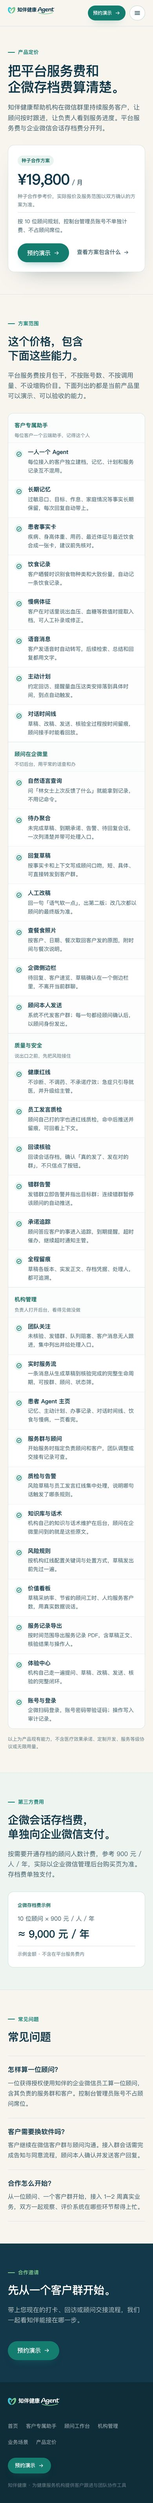
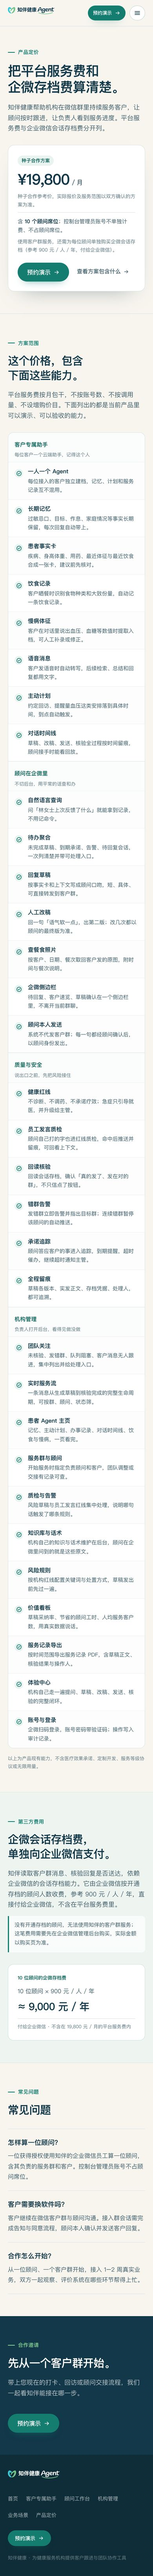
fix(website): 定价页写明 10 个席位与企微存档的前置关系 (#220)
- 价格卡标注「含 10 个顾问席位」，并说明使用客户群服务需另购企微存档
- 存档费区块说明：企微按顾问人数收取、必须先购买才能使用客户群服务
- 去掉「示例金额」措辞，改为「付给企业微信 · 不含在 19,800 元/月的平台服务费内」

Changed region(s): [[0.0308, 0.0, 0.9231, 0.9967]]

diff --git a/website/src/pages/PricingPage.tsx b/website/src/pages/PricingPage.tsx
@@ -112,7 +112,12 @@ export function PricingPage() {
               <span className="price-card__unit">/ 月</span>
             </h2>
             <p className="price-card__note">种子合作参考价，实际报价及服务范围以双方确认的方案为准。</p>
-            <p className="price-card__scope">按 10 位顾问规划，控制台管理员账号不单独计费、不占顾问席位。</p>
+            <p className="price-card__scope">
+              含 <strong>10 个顾问席位</strong>；控制台管理员账号不单独计费、不占顾问席位。
+            </p>
+            <p className="price-card__scope price-card__scope--note">
+              使用客户群服务，还需为每位顾问单独购买企微会话存档（参考 900 元 / 人 / 年，付给企业微信）。
+            </p>
             <div className="price-card__actions">
               <BookDemoLink />
               <a className="text-link text-link--dark" href="#included">
@@ -180,14 +185,17 @@ export function PricingPage() {
             <p className="eyebrow">第三方费用</p>
             <h2>企微会话存档费，<br />单独向企业微信支付。</h2>
             <p className="lede">
-              按需要开通存档的顾问人数计费，参考 900 元 / 人 / 年，实际以企业微信管理后台购买页为准。存档费单独支付。
+              知伴读取客户群消息、核验回复是否送达，依赖企业微信的会话存档能力。它由企业微信按开通存档的顾问人数收费，参考 900 元 / 人 / 年，直接付给企业微信，不含在平台服务费里。
+            </p>
+            <p className="archive-fee__must">
+              没有开通存档的顾问，无法使用知伴的客户群服务；这笔费用需要先在企业微信管理后台购买，实际金额以购买页为准。
             </p>
           </div>
-          <div className="archive-fee__calc" aria-label="企微存档费示例">
-            <p className="archive-fee__label">企微存档费示例</p>
+          <div className="archive-fee__calc" aria-label="10 位顾问的企微存档费">
+            <p className="archive-fee__label">10 位顾问的企微存档费</p>
             <p className="archive-fee__formula">10 位顾问 × 900 元 / 人 / 年</p>
             <p className="archive-fee__total">≈ 9,000 元 / 年</p>
-            <p className="archive-fee__caption">示例金额 · 不含在平台服务费内</p>
+            <p className="archive-fee__caption">付给企业微信 · 不含在 19,800 元 / 月的平台服务费内</p>
           </div>
         </div>
       </section>

diff --git a/website/tests/pricing-page.test.tsx b/website/tests/pricing-page.test.tsx
@@ -24,12 +24,18 @@ describe('产品定价页', () => {
     expect(screen.getAllByRole('link', { name: '产品定价' }).length).toBeGreaterThanOrEqual(2);
   });
 
-  it('展示种子合作参考价、范围与三项关键说明', () => {
-    renderPage();
+  it('展示种子合作参考价、10 个席位与企微存档必须另购', () => {
+    const { container } = renderPage();
     expect(screen.getByRole('heading', { level: 1 })).toHaveTextContent('把平台服务费和企微存档费算清楚。');
     expect(screen.getByText('¥19,800')).toBeInTheDocument();
     expect(screen.getByText('种子合作参考价，实际报价及服务范围以双方确认的方案为准。')).toBeInTheDocument();
-    expect(screen.getByText('按 10 位顾问规划，控制台管理员账号不单独计费、不占顾问席位。')).toBeInTheDocument();
+
+    const scope = container.querySelector('.price-card__scope')?.textContent ?? '';
+    expect(scope).toContain('含 10 个顾问席位');
+    expect(scope).toContain('控制台管理员账号不单独计费、不占顾问席位');
+
+    const note = container.querySelector('.price-card__scope--note')?.textContent ?? '';
+    expect(note).toContain('还需为每位顾问单独购买企微会话存档');
   });
 
   it('权益以表格列出全部能力，并按四组归类', () => {
@@ -47,11 +53,13 @@ describe('产品定价页', () => {
     expect(within(table).getAllByRole('img', { name: '包含' }).length).toBeGreaterThanOrEqual(20);
   });
 
-  it('企微存档费单独列出，金额带示例口径', () => {
+  it('企微存档费写明由企微收取、必须开通才能使用', () => {
     renderPage();
     expect(screen.getByText('10 位顾问 × 900 元 / 人 / 年')).toBeInTheDocument();
     expect(screen.getByText('≈ 9,000 元 / 年')).toBeInTheDocument();
-    expect(screen.getByText('示例金额 · 不含在平台服务费内')).toBeInTheDocument();
+    expect(screen.getByText('付给企业微信 · 不含在 19,800 元 / 月的平台服务费内')).toBeInTheDocument();
+    expect(screen.getByText(/没有开通存档的顾问，无法使用知伴的客户群服务/)).toBeInTheDocument();
+    expect(screen.queryByText(/示例金额/)).toBeNull();
   });
 
   it('预约按钮沿用站点现有预约方式，锚点指向方案范围', () => {

diff --git a/website/src/styles.css b/website/src/styles.css
@@ -1074,6 +1074,18 @@ h3 {
   line-height: 1.65;
 }
 
+.price-card__scope strong {
+  color: var(--navy);
+  font-weight: 700;
+}
+
+.price-card__scope--note {
+  padding-top: 0;
+  border-top: 0;
+  color: var(--muted);
+  font-size: 12.5px;
+}
+
 .price-card__actions {
   display: flex;
   flex-wrap: wrap;
@@ -1166,6 +1178,17 @@ h3 {
   border: 1px solid #cfe3da;
   border-radius: 14px;
   background: #fff;
+}
+
+.archive-fee__must {
+  margin-top: 16px;
+  padding: 12px 14px;
+  border-left: 3px solid var(--teal);
+  border-radius: 0 8px 8px 0;
+  background: rgba(255, 255, 255, 0.66);
+  color: var(--ink-2);
+  font-size: 13.5px;
+  line-height: 1.7;
 }
 
 .archive-fee__label {
